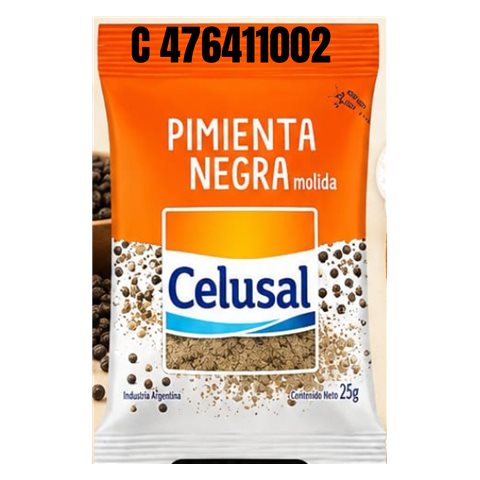
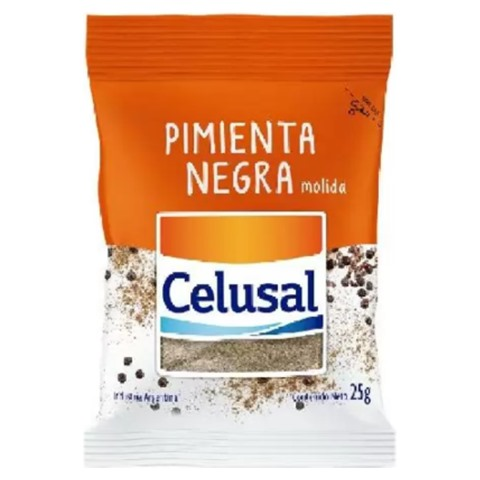
OTM: foto nueva pimienta negra Celusal

diff --git a/catalogo-otm.html b/catalogo-otm.html
@@ -137,7 +137,7 @@ const esc = s => String(s).replace(/[&<>"]/g, c => ({'&':'&amp;','<':'&lt;','>':
 const fecha = iso => iso ? iso.split('-').reverse().join('/') : '';
 const limpiar = d => d.replace(/\s+/g,' ').trim();
 const marca = d => ((d.match(/CELUSAL|GENSER|TOSCANA|MENOYO|LIVIAN|ALCAZAR|LED|DOM|TAYAL|GRAN JUICIO|TALITAS|HARINA|MAN[IÍ]/i) || ['OTM'])[0].toUpperCase());
-const FOTOS_V = '4';   // cambiar cuando se reemplazan las fotos, para que el navegador no muestre las viejas
+const FOTOS_V = '5';   // cambiar cuando se reemplazan las fotos, para que el navegador no muestre las viejas
 const norm = s => String(s).normalize('NFD').replace(/[̀-ͯ]/g,'').toLowerCase();
 // Segmentos tildados: ninguno = se ven todos; uno o varios = solo esos (se combinan con el buscador)
 const elegidos = new Set();
